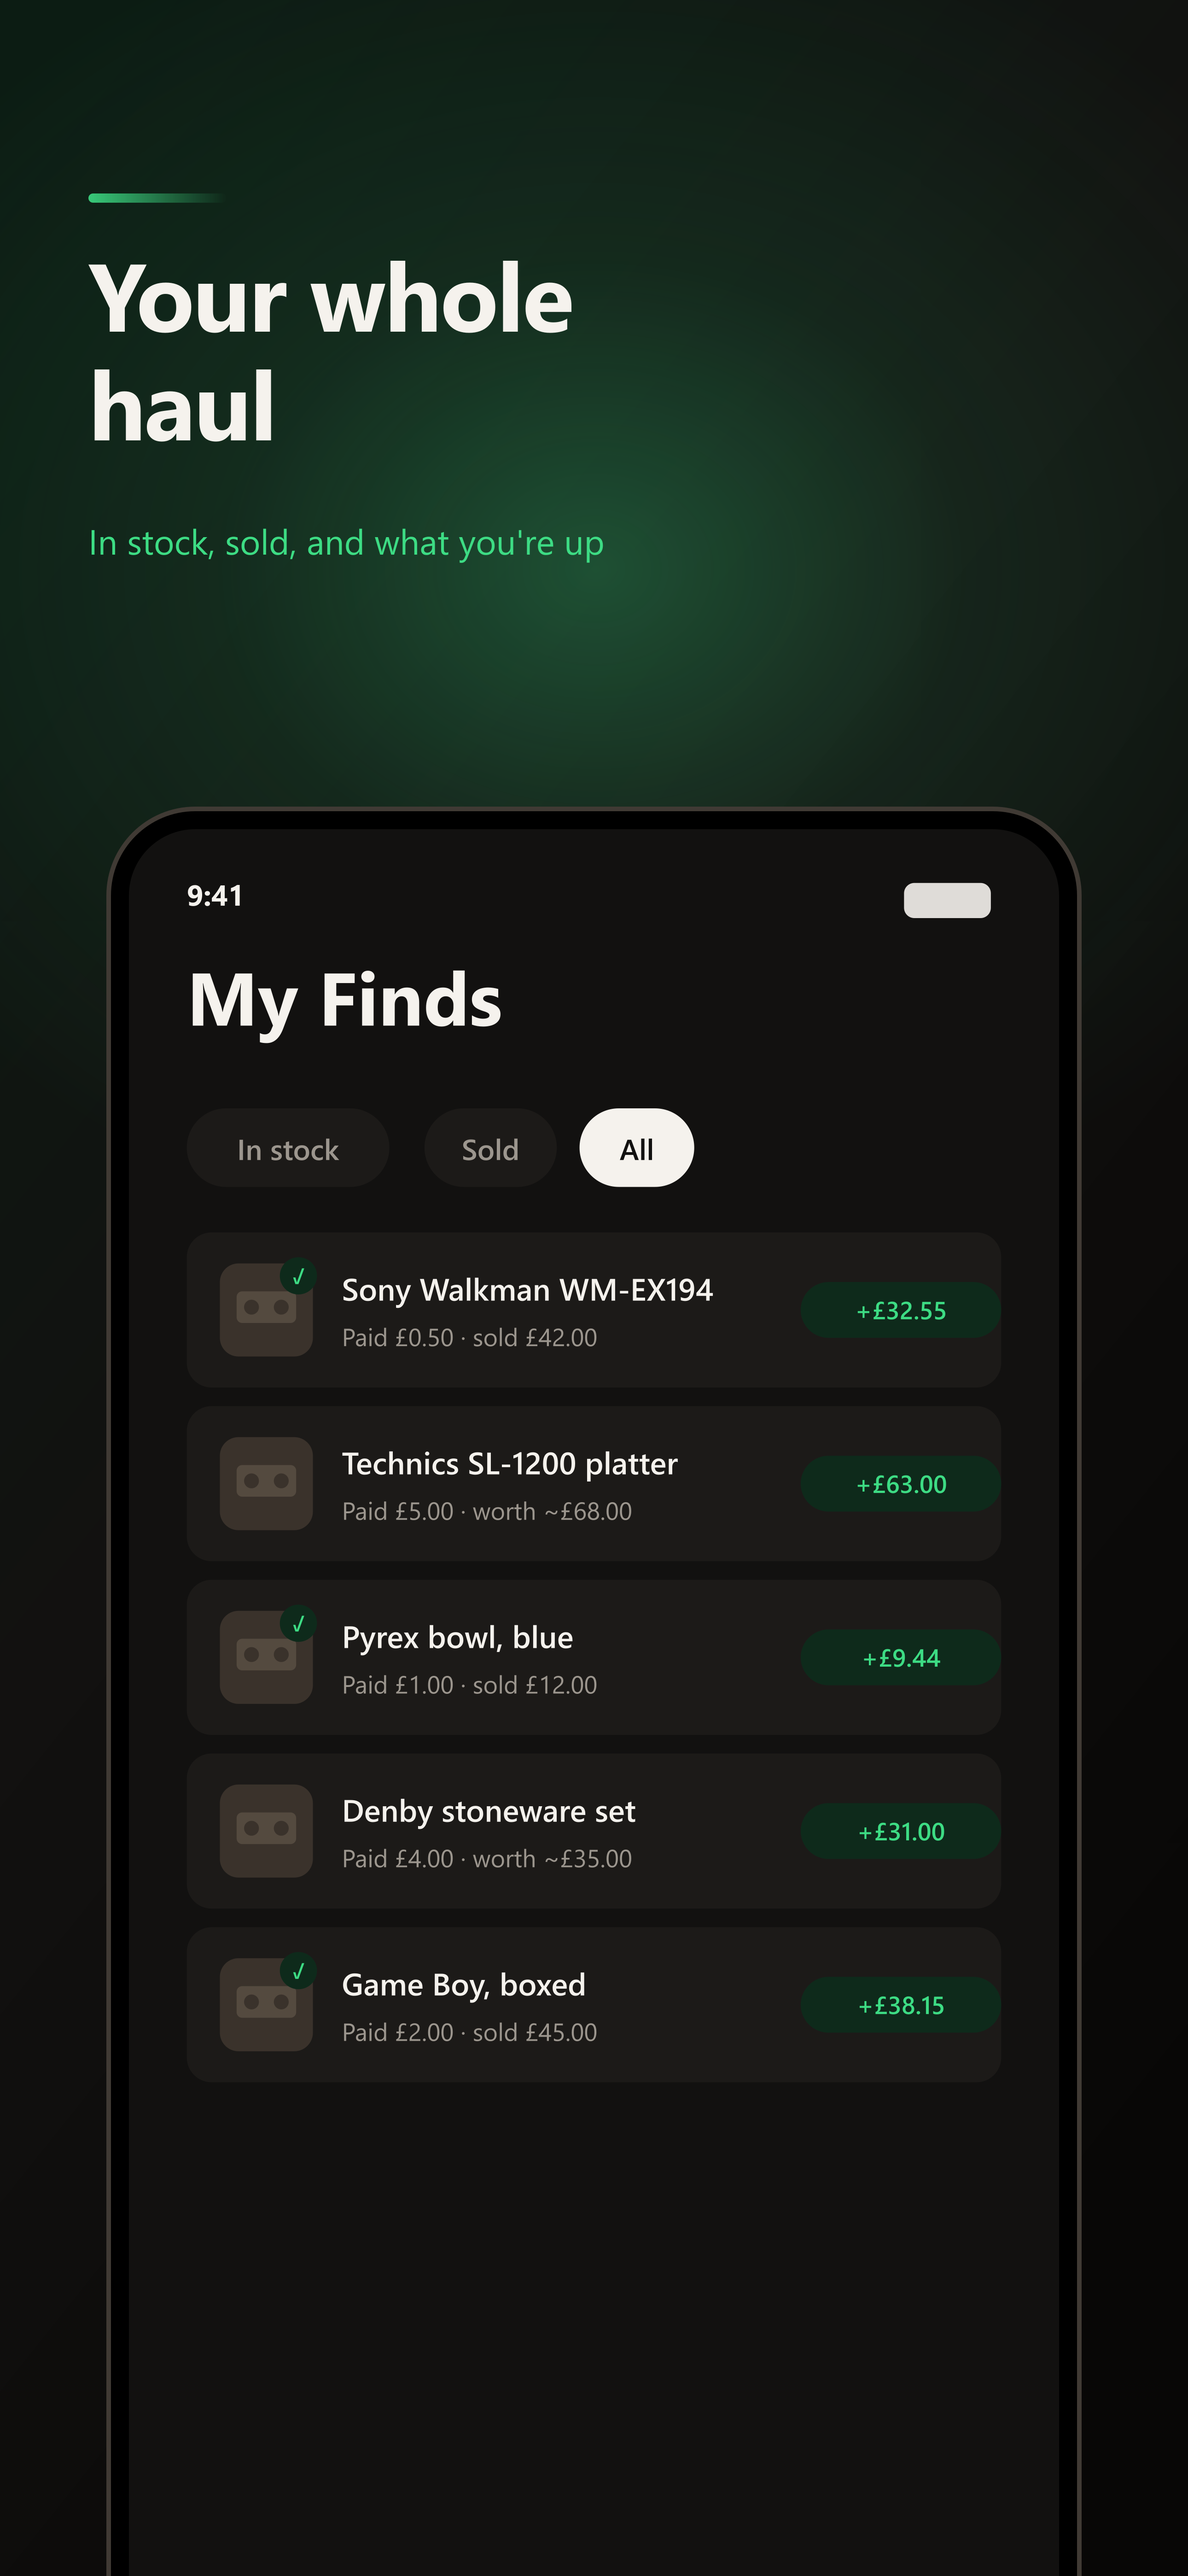
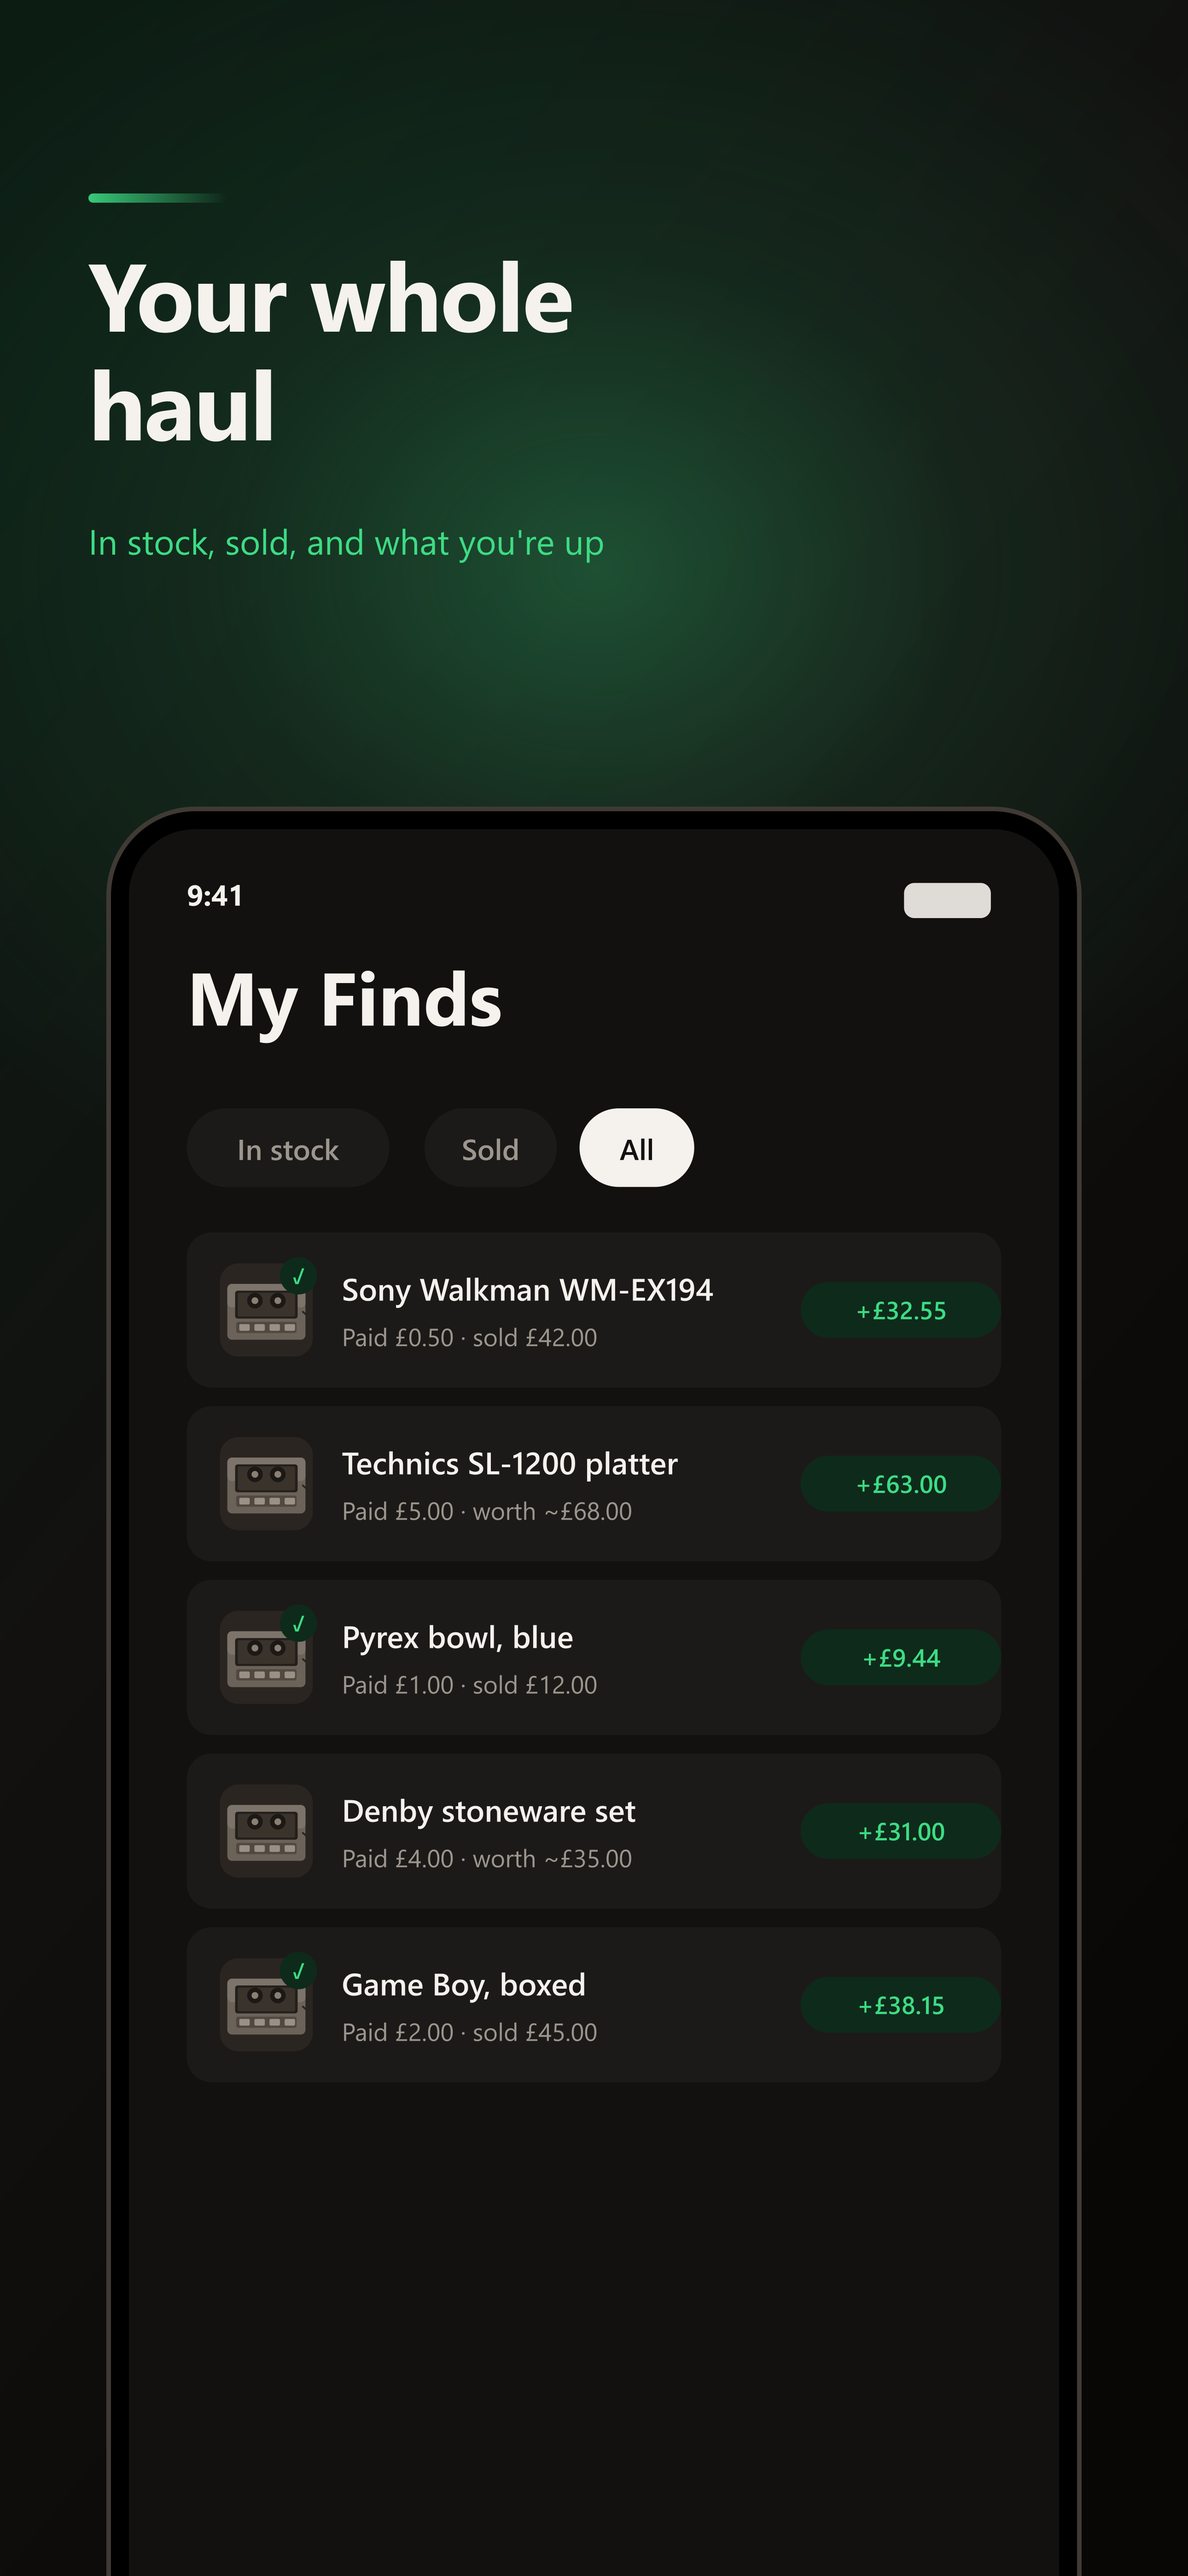
Draw real item artwork in the screenshots, with a drop-in photo slot
The placeholder shapes read as rendering artefacts rather than objects, so
the camera viewfinder, portfolio thumbnails, detail hero and share card now
show a recognisable cassette player — body, spooled cassette window,
transport buttons and a trailing headphone lead, all scaling off one
reference so it stays legible at thumbnail size.

Drawn rather than photographed on purpose. A real photo would look better,
but stock images of branded products are a licensing minefield for App
Store marketing: most Wikimedia photos are CC-BY-SA and need visible
attribution, and someone else's photo of their Walkman isn't ours to
publish.

So there's a drop-in slot instead: put a square photo at
assets/screenshots/raw/item.jpg and it's embedded everywhere the
illustration appears, no code change. Jonny's own photo of his own item has
no licensing problem at all, and Apple wants screenshots that represent the
real app. See the README in that folder.

diff --git a/app/assets/screenshots/raw/README.md b/app/assets/screenshots/raw/README.md
@@ -1,0 +1,25 @@
+# Drop your own photo here
+
+Put a **square-ish JPEG or PNG** named `item.jpg` (or `item.jpeg` /
+`item.png`) in this folder, then run:
+
+```sh
+npm run screenshots
+```
+
+It's embedded automatically wherever the item artwork appears — the camera
+viewfinder, the portfolio thumbnails, the find detail hero and the share
+card. The generator prints `using your photo: …` so you know it picked it up.
+
+## Why your own photo is the right answer
+
+The generator falls back to a drawn illustration because stock photos of
+branded products are a licensing minefield for App Store marketing. Most
+Wikimedia images are CC-BY-SA and need visible attribution, and a photo of
+someone else's Walkman isn't ours to publish.
+
+A photo you took, of an item you own, has none of those problems — and
+Apple wants screenshots that represent the real app anyway.
+
+**Tips:** shoot on a plain surface in daylight, fill the frame with one
+item, and square-crop it before dropping it in.
